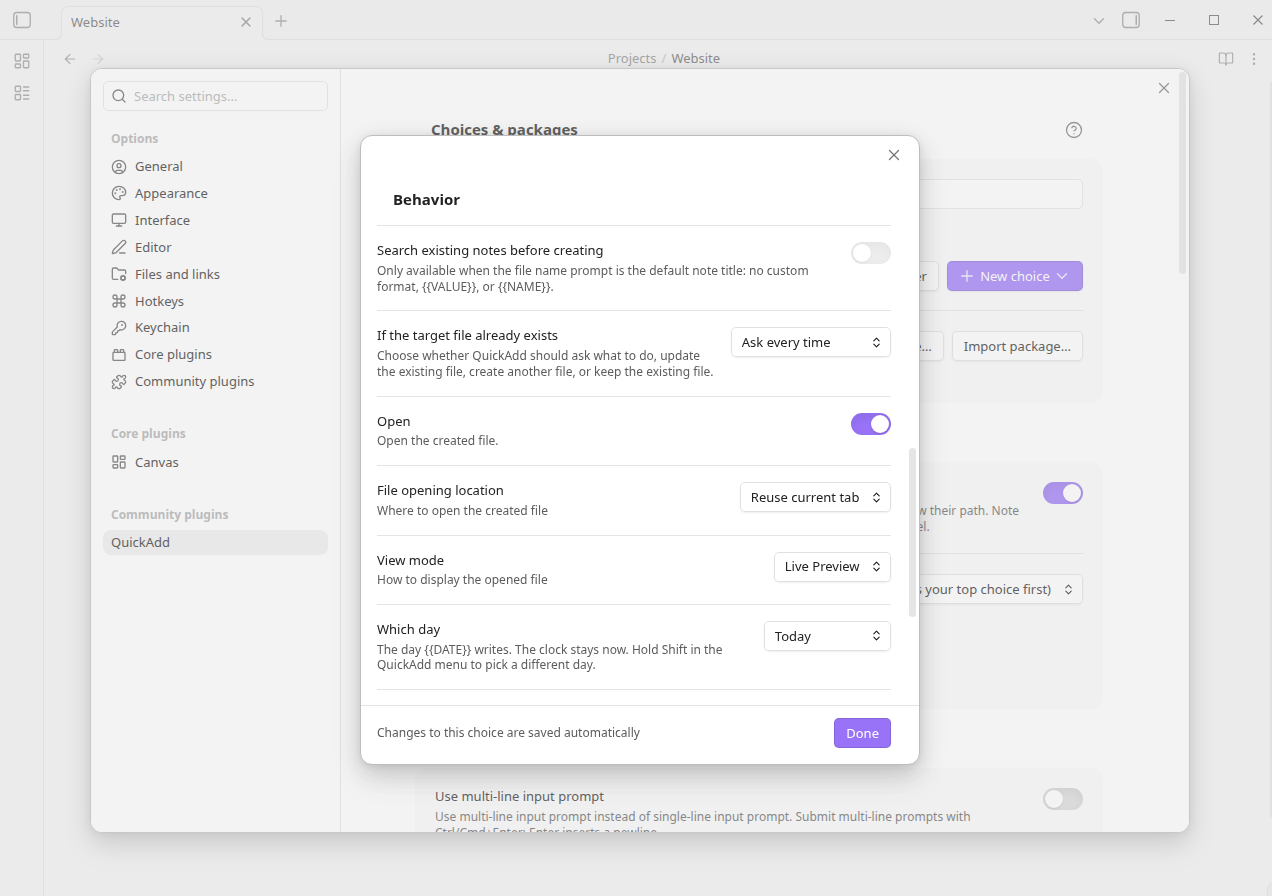
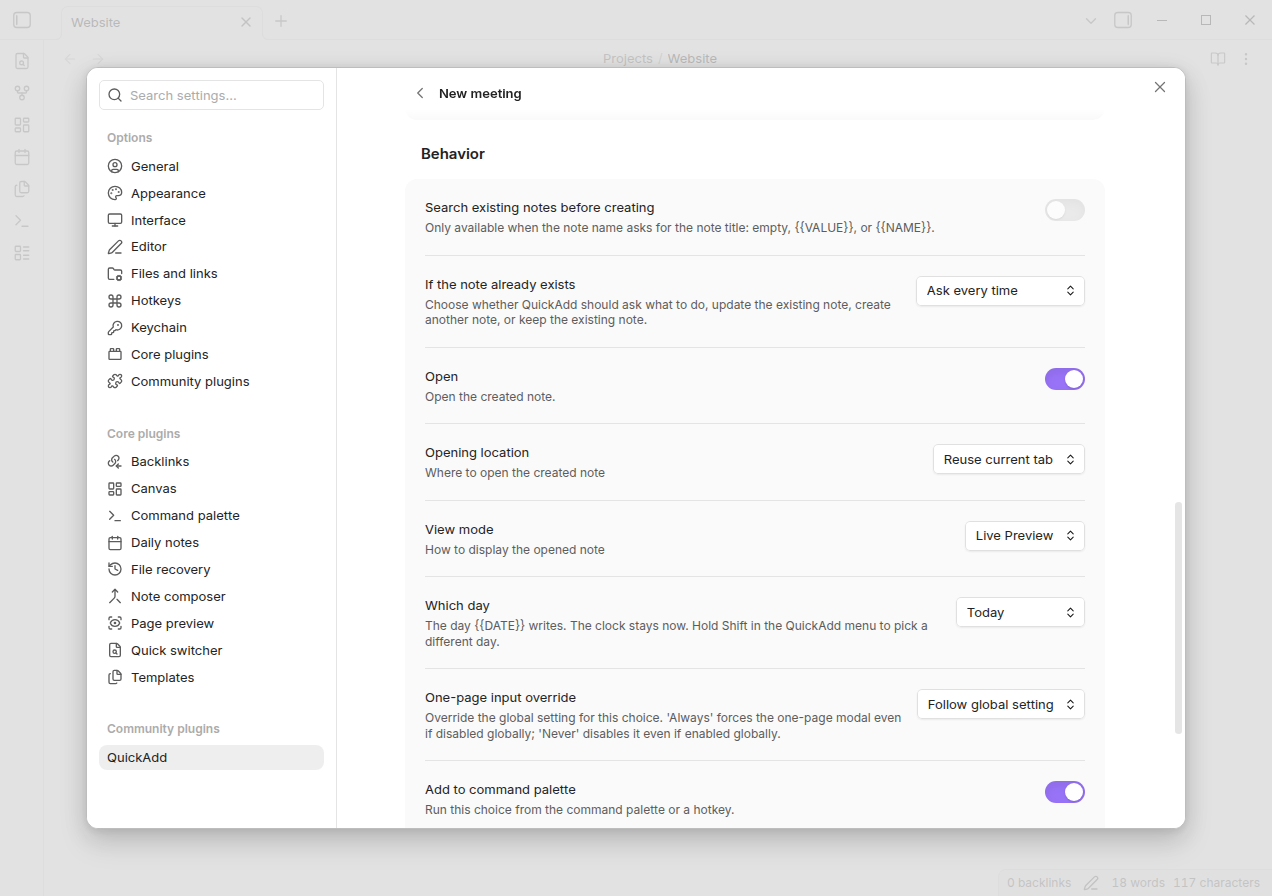
docs(meeting-notes): re-take the Open settings image on the new builder page
The image showed the old dialog's "File opening location". It now shows the New meeting page's Behavior group, and the steps say where Folder and More settings are.

diff --git a/docs/src/content/docs/docs/Examples/Template_MeetingNotes.md b/docs/src/content/docs/docs/Examples/Template_MeetingNotes.md
@@ -40,13 +40,11 @@ Date: {{DATE:YYYY-MM-DD}}
    {{DATE:YYYY-MM-DD}} {{VALUE:Meeting}}
    ```
 
-5. Set **New note location** to **In a specific folder**.
-6. Enter `Meetings` in **Folder path** and click **Add**.
-7. Turn **Open** on.
-8. Set **Opening location** to **Reuse current tab** and **View mode** to **Live Preview**.
-9. Choose **Done** and close Settings.
+5. In **Folder**, enter `Meetings`. (Before QuickAdd 2.30.0, set **New note location** to **In a specific folder**, enter `Meetings` in **Folder path**, and click **Add**.)
+6. Click **More settings**. Turn **Open** on. Set **Opening location** to **Reuse current tab** and **View mode** to **Live Preview**.
+7. Close Settings. Leaving the page saves it. (Before QuickAdd 2.30.0, choose **Done** first.)
 
-![The Template choice settings with Open enabled, File opening location set to Reuse current tab, and View mode set to Live Preview](../Images/examples/meeting-open-settings.png)
+![The New meeting choice's Behavior settings with Open on, Opening location set to Reuse current tab, and View mode set to Live Preview](../Images/examples/meeting-open-settings.png)
 
 ## Run it and start typing
 
